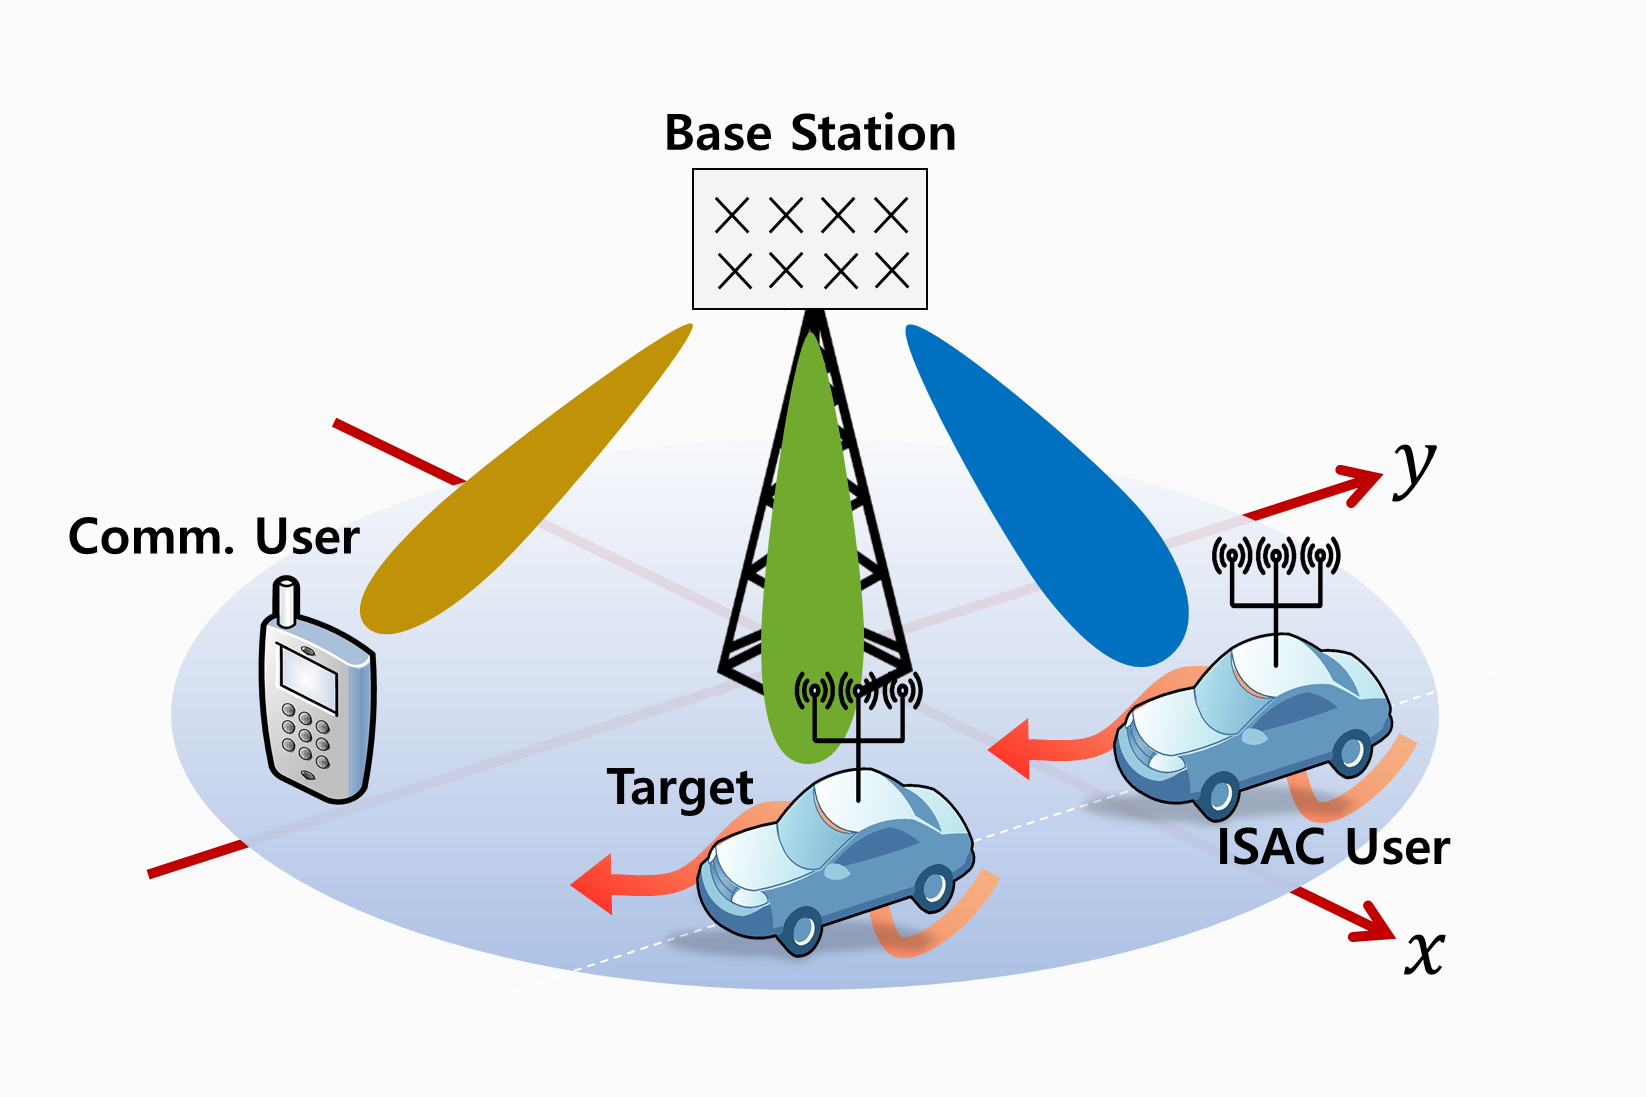
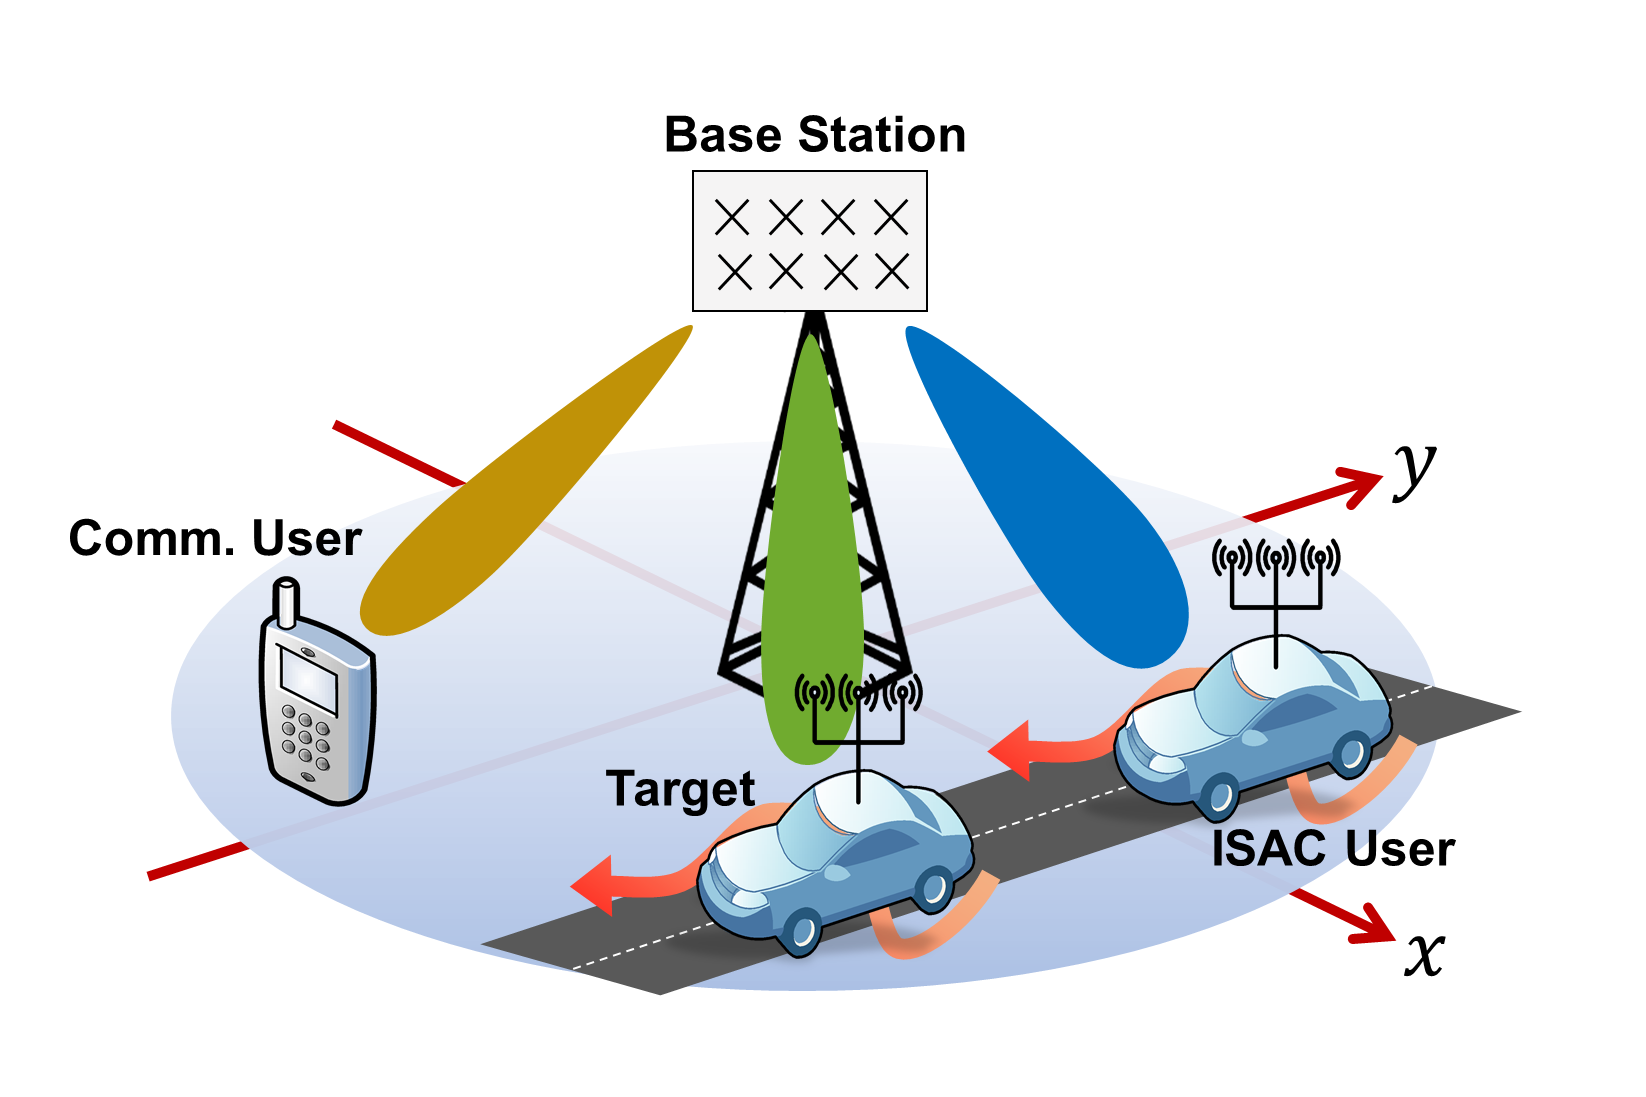
jpg2png

diff --git a/_research/7_research.md b/_research/7_research.md
@@ -2,14 +2,14 @@
 layout: page
 title: Integrated Sensing and Communication
 description: integrated sensing and communication description
-img: assets/img/projects/ISAC/figure7_0_2.jpg
+img: assets/img/projects/ISAC/figure7_0_2.png
 importance: 2
 category: scenario
 ---
 
 <div class="row">
     <div class="col-sm mt-3 mt-md-0">
-        {% include figure.liquid loading="eager" path="assets/img/projects/ISAC/figure7_3.jpg" title="project7_ISAC_figure3" class="img-fluid rounded z-depth-1" %}
+        {% include figure.liquid loading="eager" path="assets/img/projects/ISAC/figure7_3.png" title="project7_ISAC_figure3" class="img-fluid rounded z-depth-1" %}
     </div>
 </div>
 <div class="caption">
@@ -23,7 +23,7 @@ Recognized by international standards organizations such as the ITU as a core el
 
 <div class="row">
     <div class="col-sm mt-3 mt-md-0">
-        {% include figure.liquid loading="eager" path="assets/img/projects/ISAC/figure7_1.jpg" title="project7_ISAC_figure1" class="img-fluid rounded z-depth-1" %}
+        {% include figure.liquid loading="eager" path="assets/img/projects/ISAC/figure7_1.png" title="project7_ISAC_figure1" class="img-fluid rounded z-depth-1" %}
     </div>
 </div>
 <div class="caption">
@@ -36,7 +36,7 @@ Furthermore, Reconfigurable Intelligent Surfaces (RIS) add a new dimension of ca
 
 <div class="row">
     <div class="col-sm mt-3 mt-md-0">
-        {% include figure.liquid loading="eager" path="assets/img/projects/ISAC/figure7_2.jpg" title="project7_ISAC_figure2" class="img-fluid rounded z-depth-1" %}
+        {% include figure.liquid loading="eager" path="assets/img/projects/ISAC/figure7_2.png" title="project7_ISAC_figure2" class="img-fluid rounded z-depth-1" %}
     </div>
 </div>
 <div class="caption">
